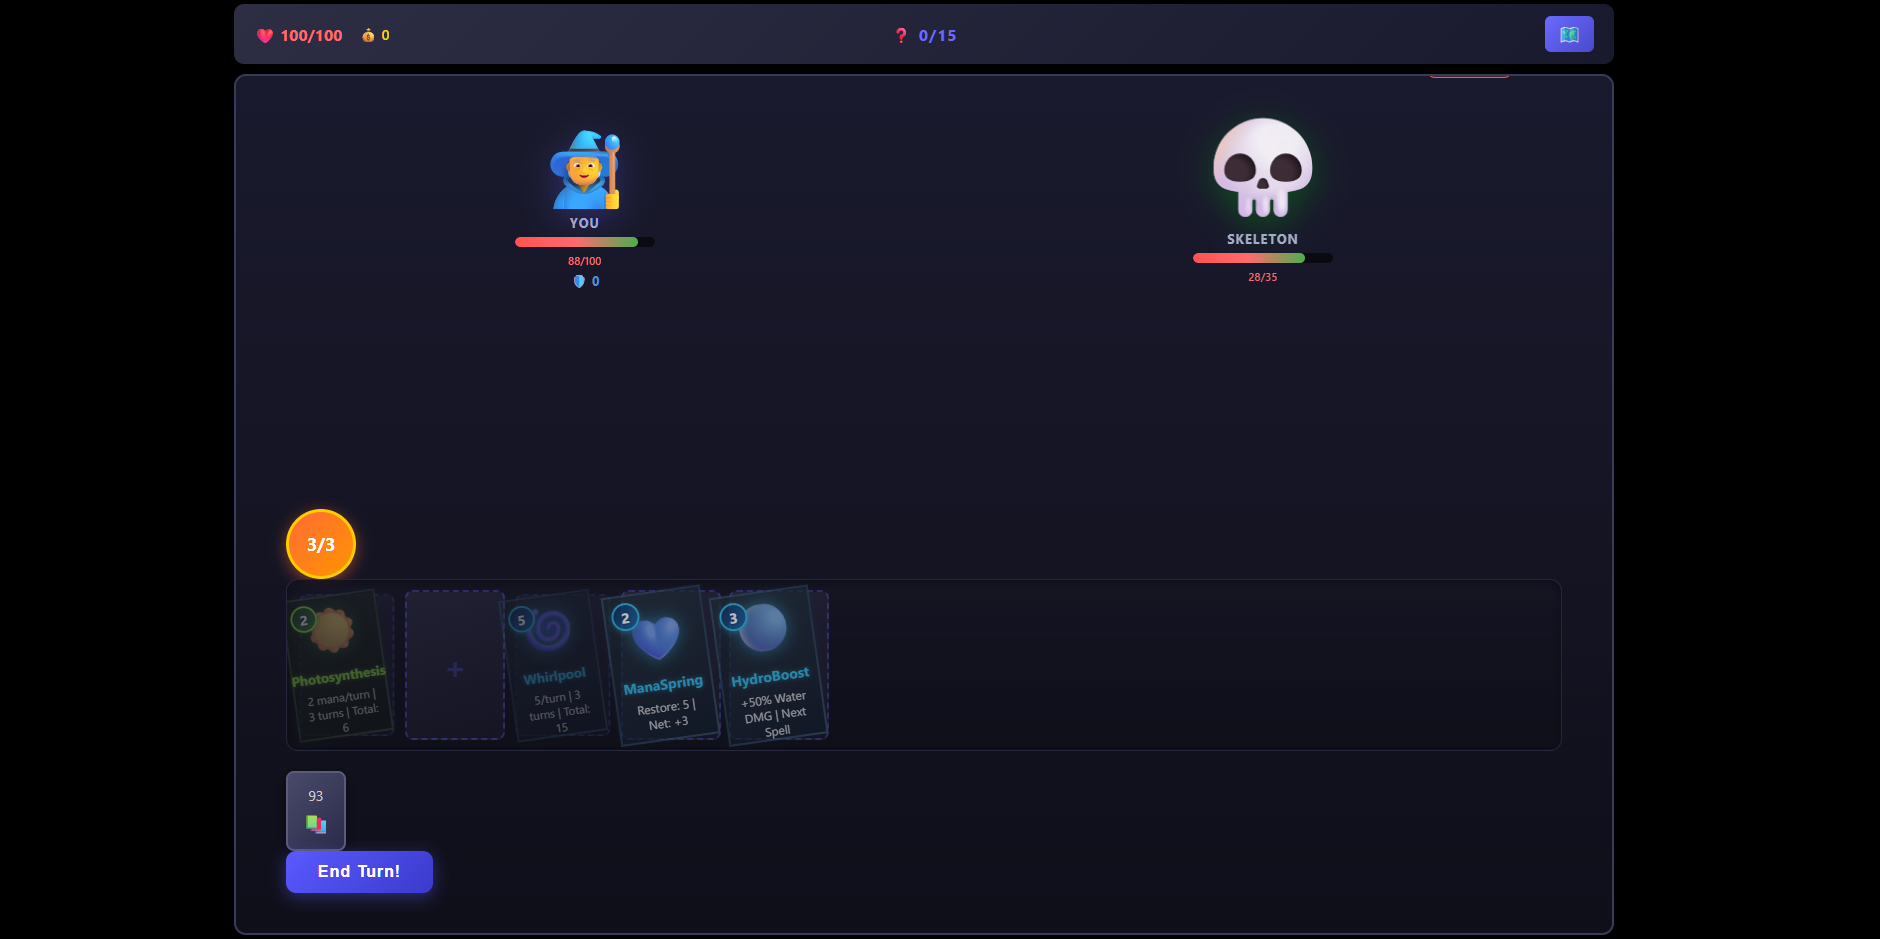
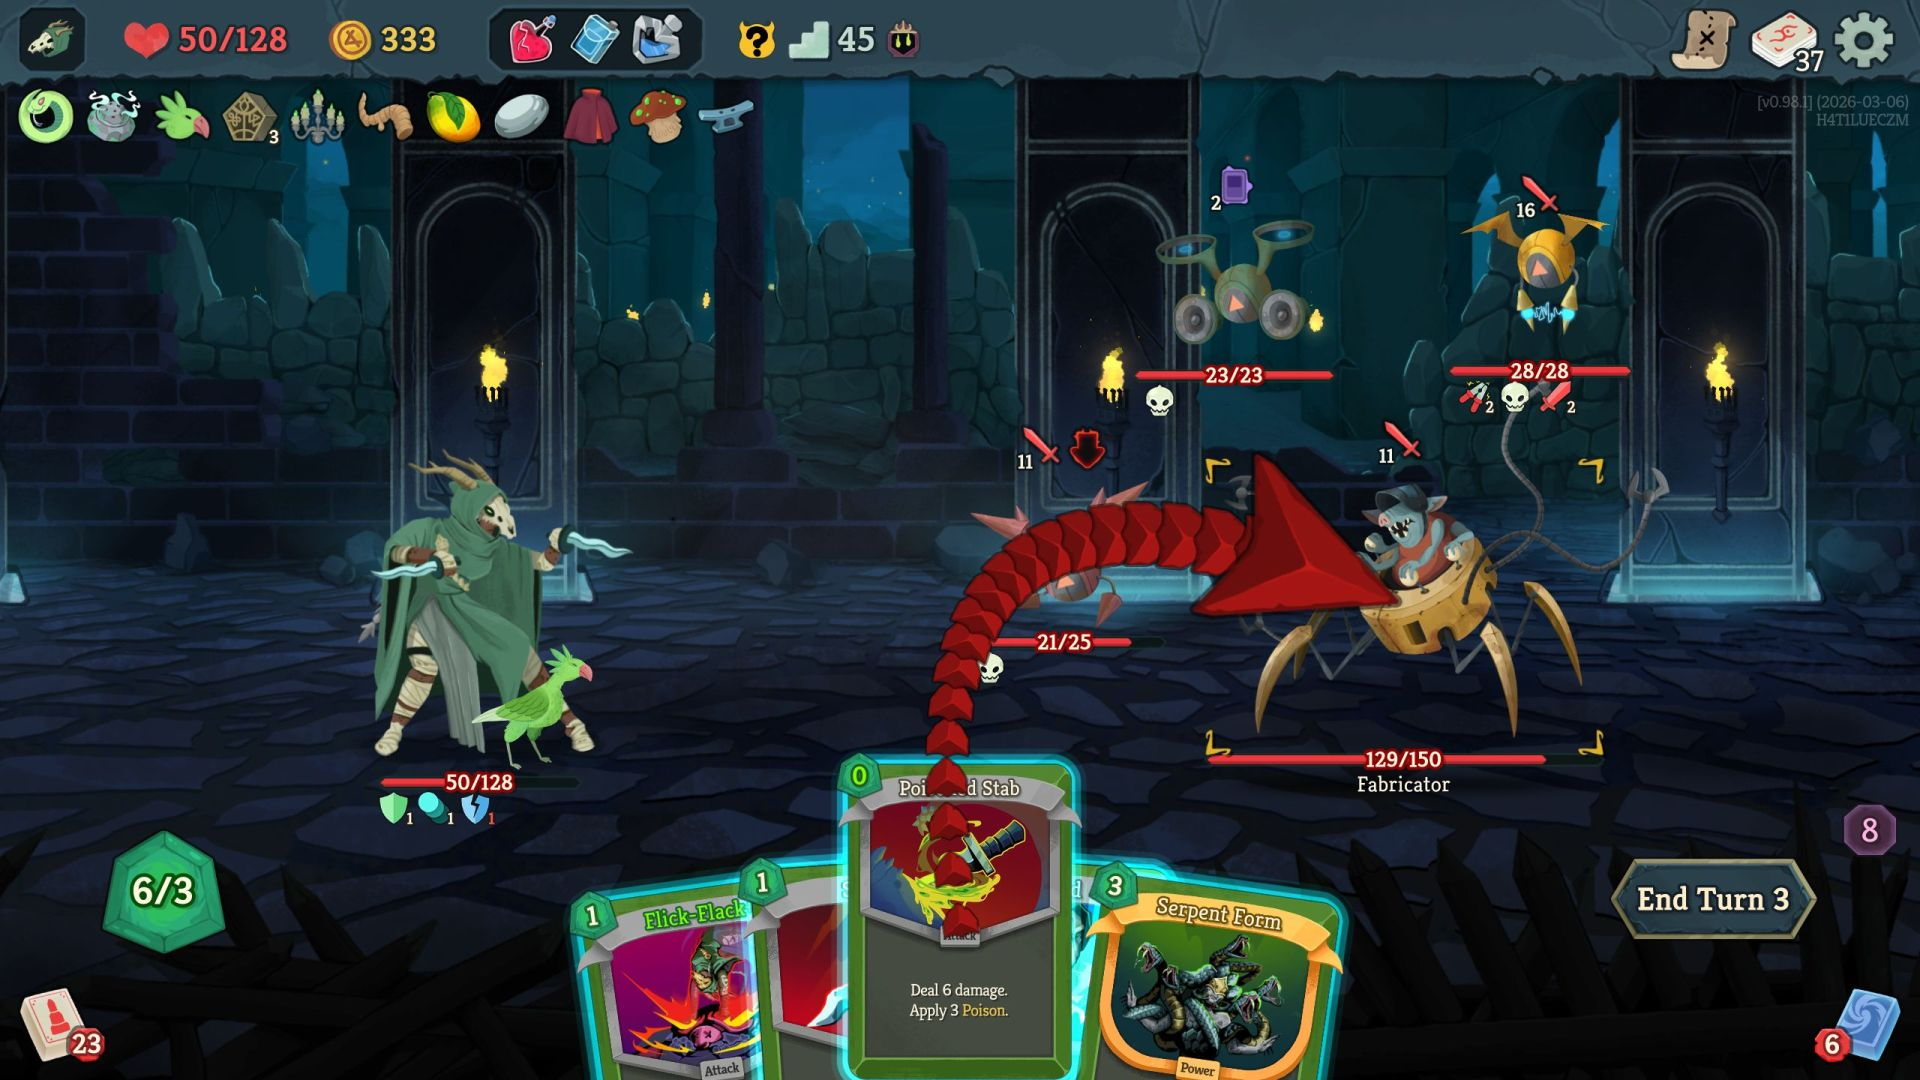
Visual style change and reference

diff --git a/style.css b/style.css
@@ -333,19 +333,18 @@ body {
     gap: 2px;
 }
 
-/* Hand Container - STS-style (draw pile left, energy orb, fanned cards, discard right, end turn) */
+/* Hand Container - STS-style (absolute positioning for proper centering) */
 #hand-container {
-    display: flex;
-    align-items: flex-end;
-    justify-content: flex-start;
-    padding: 20px 30px;
-    min-height: 220px;
-    gap: 15px;
     position: relative;
+    padding: 20px 30px;
+    min-height: 240px;
 }
 
-/* Draw Pile (LEFT side - deck) */
+/* Draw Pile (BOTTOM-LEFT corner) */
 #draw-pile {
+    position: absolute;
+    left: 30px;
+    bottom: 30px;
     width: 60px;
     height: 80px;
     background: linear-gradient(135deg, #4a4a6a, #2a2a4a);
@@ -357,7 +356,6 @@ body {
     font-size: 14px;
     color: #cccccc;
     box-shadow: 0 4px 12px rgba(0, 0, 0, 0.5);
-    flex-shrink: 0;
     border: 2px solid #5a5a7a;
     cursor: pointer;
     transition: transform 0.2s;
@@ -368,8 +366,40 @@ body {
     box-shadow: 0 8px 20px rgba(90, 90, 122, 0.6);
 }
 
-/* Discard Pile (RIGHT side) */
+/* Energy Orb (above draw pile, BOTTOM-LEFT) */
+#energy-orb {
+    position: absolute;
+    left: 30px;
+    bottom: 130px;
+    width: 50px;
+    height: 50px;
+    background: transparent;
+    border-radius: 50%;
+    display: flex;
+    align-items: center;
+    justify-content: center;
+    font-weight: bold;
+    font-size: 16px;
+    color: #ffd700;
+    border: 2px dashed #555;
+}
+
+/* Hand - CENTERED at bottom */
+#hand {
+    position: absolute;
+    left: 50%;
+    transform: translateX(-50%);
+    bottom: 30px;
+    display: flex;
+    justify-content: center;
+    gap: 4px;
+}
+
+/* Discard Pile (BOTTOM-RIGHT corner) */
 #discard-pile {
+    position: absolute;
+    right: 30px;
+    bottom: 30px;
     width: 60px;
     height: 80px;
     background: linear-gradient(135deg, #6a4a4a, #4a2a2a);
@@ -381,7 +411,6 @@ body {
     font-size: 14px;
     color: #cccccc;
     box-shadow: 0 4px 12px rgba(0, 0, 0, 0.5);
-    flex-shrink: 0;
     border: 2px solid #7a5a5a;
     cursor: pointer;
     transition: transform 0.2s;
@@ -397,50 +426,37 @@ body {
     margin-top: 4px;
 }
 
-/* Energy Orb (left side) - Placeholder for custom image */
-#energy-orb {
-    width: 50px;
-    height: 50px;
-    background: transparent;  /* Empty for custom image */
-    border-radius: 50%;
-    display: flex;
-    align-items: center;
-    justify-content: center;
+/* End Turn Button (BOTTOM-RIGHT, above discard pile) */
+#end-turn-btn {
+    position: absolute;
+    right: 30px;
+    bottom: 130px;
+    padding: 14px 28px;
+    font-size: 14px;
     font-weight: bold;
-    font-size: 16px;
-    color: #ffd700;
-    flex-shrink: 0;
-    border: 2px dashed #555;  /* Placeholder border */
-    position: relative;
-    order: 1;
+    color: #ffffff;
+    background: linear-gradient(135deg, #5a5aff, #3a3acc);
+    border: none;
+    border-radius: 8px;
+    cursor: pointer;
+    transition: transform 0.15s, box-shadow 0.15s;
+    box-shadow: 0 4px 16px rgba(90, 90, 255, 0.4);
+    white-space: nowrap;
 }
 
-/* Hand - Fanned Cards (centered) */
-#hand {
-    display: flex;
-    justify-content: center;
-    gap: 4px;
-    flex: 1;
-    order: 2;
+#end-turn-btn:hover {
+    transform: translateY(-2px);
+    box-shadow: 0 8px 24px rgba(90, 90, 255, 0.6);
 }
 
-/* Discard Pile styling (defined above, repeated for order) */
-#discard-pile {
-    order: 3;
+#end-turn-btn:active {
+    transform: translateY(0);
 }
 
-/* Draw Pile styling (defined above, repeated for order) */
-#draw-pile {
-    order: 0;
-}
-
-/* Hand - Fanned Cards (centered) */
-#hand {
-    display: flex;
-    justify-content: center;
-    gap: 4px;
-    flex: 1;
-    order: 2;
+#end-turn-btn:disabled {
+    opacity: 0.5;
+    cursor: not-allowed;
+    transform: none;
 }
 
 /* Card Fanning Effect - Each card rotated slightly with better pop-up */
@@ -577,6 +593,43 @@ body {
 
 #deck-viewer-cards .card:hover {
     transform: scale(1.05) !important;
+}
+
+/* Deck viewer card styling */
+#deck-viewer-cards .card {
+    background: linear-gradient(135deg, #2a2a4a, #1a1a2e);
+    border: 1px solid #3a3a5a;
+    border-radius: 8px;
+    padding: 10px;
+    display: flex;
+    flex-direction: column;
+    align-items: center;
+    gap: 8px;
+    min-height: 120px;
+}
+
+#deck-viewer-cards .card-emoji {
+    font-size: 32px;
+}
+
+#deck-viewer-cards .card-name {
+    color: #e6e6e6;
+    font-size: 12px;
+    font-weight: 500;
+    text-align: center;
+}
+
+#deck-viewer-cards .card-cost {
+    background: #6a6aff;
+    color: white;
+    border-radius: 50%;
+    width: 24px;
+    height: 24px;
+    display: flex;
+    align-items: center;
+    justify-content: center;
+    font-size: 11px;
+    font-weight: bold;
 }
 
 /* Combat Placeholder */

diff --git a/main.js b/main.js
@@ -977,10 +977,10 @@ function openDeckViewer(type) {
     let cards = [];
     
     if (type === 'deck') {
-        cards = pileManager.getDrawPile();
+        cards = pileManager.drawPile || [];  // Direct property access
         deckViewerTitle.textContent = `Draw Pile (${cards.length} cards)`;
     } else if (type === 'discard') {
-        cards = pileManager.getDiscardPile();
+        cards = pileManager.discardPile || [];  // Direct property access
         deckViewerTitle.textContent = `Discard Pile (${cards.length} cards)`;
     }
     